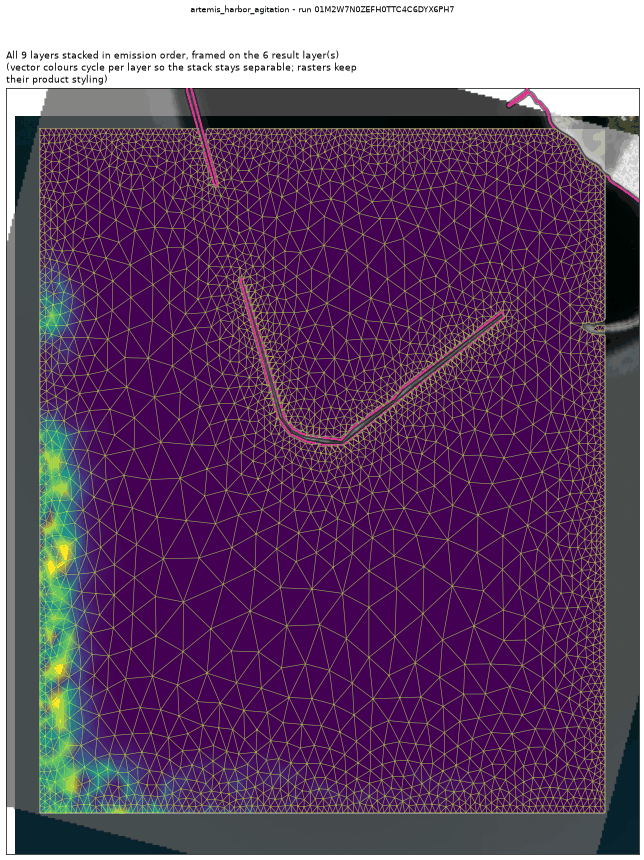
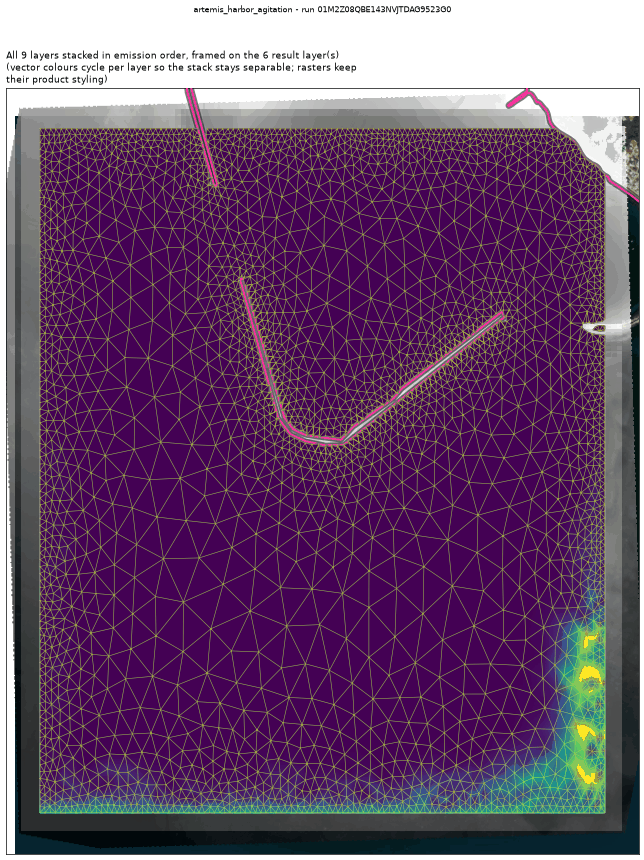
docs: the agitation page is pinned to the run the serial solver made
The domain row reads as the need it now is, and the proving run is
01M2Z08QBE143NVJTDAG9523G0: one core, an incident wave on 191 boundary nodes
instead of 60, and Kd 3.725 against the old 0.0908 on the same mesh.

Claude-Session: https://claude.ai/code/session_011wCduZ7TyoMtpZoGZfh2Rw

diff --git a/docs/templates/artemis_harbor_agitation.md b/docs/templates/artemis_harbor_agitation.md
@@ -15,8 +15,7 @@ The WAVE AGITATION (Kd = Hs/H0) a declared structure leaves inside a harbour, ma
 | row | produced by | what it is | datum |
 |---|---|---|---|
 | `extent` | supplied by the caller | a rectangle layer you supply, as a uri or a layer name; required - the template names no source for it. | - |
-| `coast` | matched on a need for hydrography | the hydrography this run reads, as a uri or a layer name; unfilled, the run matches a source of hydrography. | - |
-| `domain` | `derive_water_polygon` | - | - |
+| `domain` | matched on a need for hydrography | the closed polygon this run solves over, as a uri, a layer name or a drawn shape; unfilled, the run matches a source of hydrography. | - |
 | `bed` | matched on a need for bathymetry | what the domain's nodes carry for elevation: a DEM, a bathymetry or survey raster, a layer of soundings, or a depth in metres below the free surface; unfilled, the run matches a source of bathymetry. | - |
 | `structure` | supplied by the caller | a polyline layer you supply, as a uri or a layer name; required - the template names no source for it. | - |
 | `mesh` | supplied by the caller | a mesh layer you supply, as a uri or a layer name; absent is legal and the run reports it. | - |
@@ -40,39 +39,39 @@ The values the template declares. `desc` is what the model reads when it fills o
 
 | field | the proving run's value |
 |---|---|
-| `kd_max` | 0.09084709733724594 |
-| `kd_transect_min` | 8.637458559805286e-14 |
-| `kd_transect_max` | 9.001717415912935e-08 |
-| `hs_max_m` | 0.09084709733724594 |
+| `kd_max` | 3.7250149250030518 |
+| `kd_transect_min` | 8.162245879184127e-11 |
+| `kd_transect_max` | 3.460504285612842e-05 |
+| `hs_max_m` | 3.7250149250030518 |
 | `mesh_size_m` | 6.593208586451455 |
 
 It publishes these layers onto the canvas:
 
-- Input: osm coastline (osm_coastline)
-- Input: topobathy (topobathy, CUDEM 1/9" ~3 m nearshore; ETOPO 2022 15" ~450 m offshore fallback; 3DEP 10 m land, datum NAVD88 (metres, positive up))
-- Input: bed elevation (dem, 3DEP 1-10 m US lidar (default 10 m); Copernicus GLO-30 30 m global via source=copernicus, datum NAVD88 (metres, positive up))
-- Wave height (m) at t = 8 s (water_inside_the_box_mesh)
-- Wave phase (rad) at t = 8 s (water_inside_the_box_mesh)
-- Free surface (m) at t = 8 s (water_inside_the_box_mesh)
-- Bottom (m) at t = 8 s (water_inside_the_box_mesh)
-- Kd (Hs/H0) at t = 8 s (water_inside_the_box_mesh)
-- water_inside_the_box_mesh
+- Input: domain (osm_coastline)
+- Input: bed (3dep_extra, datum NAVD88 (metres, positive up))
+- Input: bed (bluetopo, BlueTopo multi-resolution UTM tiles - 2 m / 4 m / 8 m / 16 m tiers, finer in shallow water, datum NAVD88 (metres, positive up))
+- Wave height (m) at t = 8 s (osm_coastline_osm_coastline_mesh)
+- Wave phase (rad) at t = 8 s (osm_coastline_osm_coastline_mesh)
+- Free surface (m) at t = 8 s (osm_coastline_osm_coastline_mesh)
+- Bottom (m) at t = 8 s (osm_coastline_osm_coastline_mesh)
+- Kd (Hs/H0) at t = 8 s (osm_coastline_osm_coastline_mesh)
+- osm_coastline_osm_coastline_mesh
 
 ## The proving run
 
-Run `01M2W7N0ZEFH0TTC4C6DYX6PH7`, 2026-09-19T07:04:07.578407+00:00, 28.63 s, at commit `966392d7b95ac996d00a5df14f667096b64a3e2a-dirty`.
+Run `01M2Z08QBE143NVJTDAG9523G0`, 2026-09-20T08:52:48.349942+00:00, 39.196 s, at commit `39c3afe3a8cf8fe71bbffa928f18a8ea27b83fdf`.
 
-![Every layer the run published, stacked and framed on the result (run 01M2W7N0ZEFH0TTC4C6DYX6PH7)](artemis_harbor_agitation/artemis_harbor_agitation.png)
+![Every layer the run published, stacked and framed on the result (run 01M2Z08QBE143NVJTDAG9523G0)](artemis_harbor_agitation/artemis_harbor_agitation.png)
 
-*Every layer the run published, stacked and framed on the result (run 01M2W7N0ZEFH0TTC4C6DYX6PH7)*
+*Every layer the run published, stacked and framed on the result (run 01M2Z08QBE143NVJTDAG9523G0)*
 
-![peak frame (run 01M2W7N0ZEFH0TTC4C6DYX6PH7)](artemis_harbor_agitation/artemis_harbor_agitation_peak_frame.png)
+![peak frame (run 01M2Z08QBE143NVJTDAG9523G0)](artemis_harbor_agitation/artemis_harbor_agitation_peak_frame.png)
 
-*peak frame (run 01M2W7N0ZEFH0TTC4C6DYX6PH7)*
+*peak frame (run 01M2Z08QBE143NVJTDAG9523G0)*
 
-![agitation coefficient - the chart the run persisted (run 01M2W7N0ZEFH0TTC4C6DYX6PH7)](artemis_harbor_agitation/artemis_harbor_agitation_chart_agitation_coefficient.png)
+![agitation coefficient - the chart the run persisted (run 01M2Z08QBE143NVJTDAG9523G0)](artemis_harbor_agitation/artemis_harbor_agitation_chart_agitation_coefficient.png)
 
-*agitation coefficient - the chart the run persisted (run 01M2W7N0ZEFH0TTC4C6DYX6PH7)*
+*agitation coefficient - the chart the run persisted (run 01M2Z08QBE143NVJTDAG9523G0)*
 
 ### The sheet it filled
 
@@ -98,11 +97,11 @@ await TOOL_REGISTRY['artemis_harbor_agitation'].fn(
     mesh_resolution_m=25.0,
     reflection_coef=0.3,
     wave_height_m=1.0,
-    box="{'bbox': [-71.525, 41.338, -71.492, 41.368], 'name': 'Point Judith Harbor'}",
+    extent="{'bbox': [-71.525, 41.338, -71.492, 41.368], 'name': 'Point Judith Harbor'}",
     structure=[{'length': 42, 'head': [[-71.48868, 41.36073], [-71.4885, 41.36065], [-71.4888, 41.36034], [-71.48908, 41.36007], [-71.48934, 41.35984], [-71.48958, 41.35967], [-71.48995, 41.35947], [-71.49028, 41.35936]], 'truncated': True}, [[-71.51466, 41.37429], [-71.51471, 41.37424], [-71.51627, 41.37261], [-71.51623, 41.3707], [-71.51618, 41.36983], [-71.51467, 41.3656], [-71.51471, 41.36549], [-71.51484, 41.36556], [-71.51639, 41.3696], [-71.51649, 41.37019], [-71.51652, 41.37268], [-71.51486, 41.37432], [-71.51466, 41.37429]], [[-71.50831, 41.35412], [-71.50726, 41.35414], [-71.49785, 41.35975], [-71.49801, 41.35998], [-71.50387, 41.3566], [-71.50434, 41.35618], [-71.50668, 41.35494], [-71.50741, 41.35436], [-71.50833, 41.35445], [-71.50942, 41.35457], [-71.5098, 41.35467], [-71.51022, 41.35484], [-71.51073, 41.35535], [-71.51145, 41.35717], [-71.51312, 41.36141], [-71.51325, 41.36145], [-71.51329, 41.36135], [-71.51109, 41.35532], [-71.51038, 41.35462], [-71.50948, 41.3543], [-71.50831, 41.35412]]],
     keywords={'DIRECTION OF WAVE PROPAGATION': 160.0},
 )
 ```
 
-That is the invocation this run came from; the figures above are stamped with run `01M2W7N0ZEFH0TTC4C6DYX6PH7` and commit `966392d7b95ac996d00a5df14f667096b64a3e2a-dirty`. The full argument record is [`artemis_harbor_agitation/run.json`](artemis_harbor_agitation/run.json).
+That is the invocation this run came from; the figures above are stamped with run `01M2Z08QBE143NVJTDAG9523G0` and commit `39c3afe3a8cf8fe71bbffa928f18a8ea27b83fdf`. The full argument record is [`artemis_harbor_agitation/run.json`](artemis_harbor_agitation/run.json).
 

diff --git a/docs/templates/index.md b/docs/templates/index.md
@@ -10,7 +10,7 @@
 
 The WAVE AGITATION (Kd = Hs/H0) a declared structure leaves inside a harbour, marina or sheltered basin.
 
-Module `artemis`, proving run `01M2W7N0ZEFH0TTC4C6DYX6PH7`.
+Module `artemis`, proving run `01M2Z08QBE143NVJTDAG9523G0`.
 
 ## [`telemac3d_stratified_flow`](telemac3d_stratified_flow.md)
 
